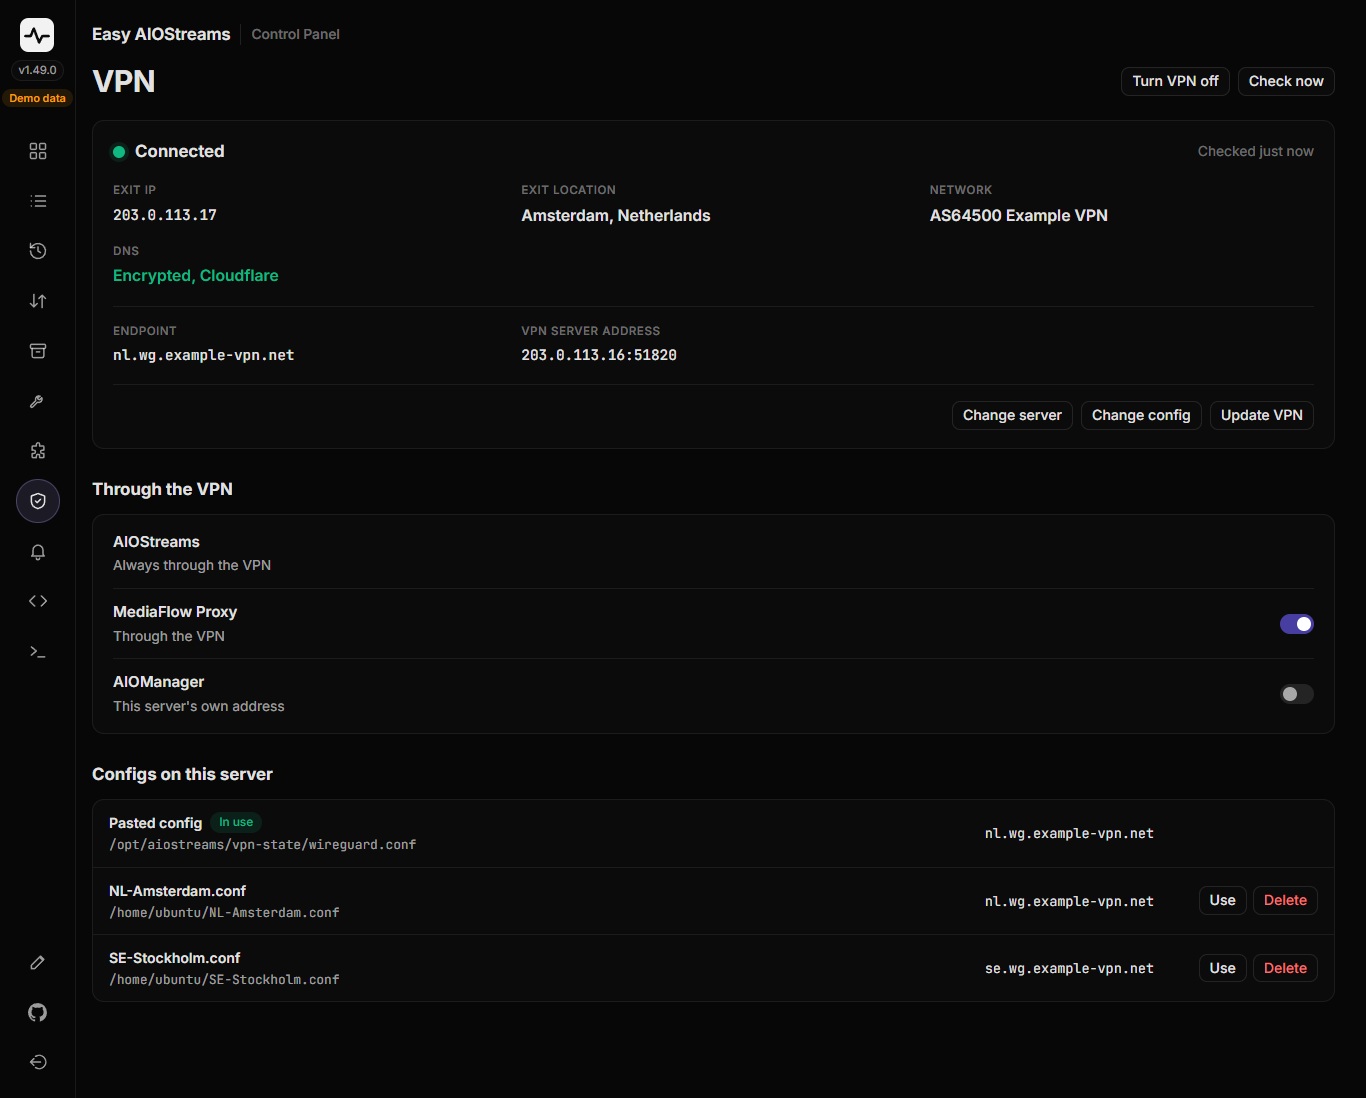
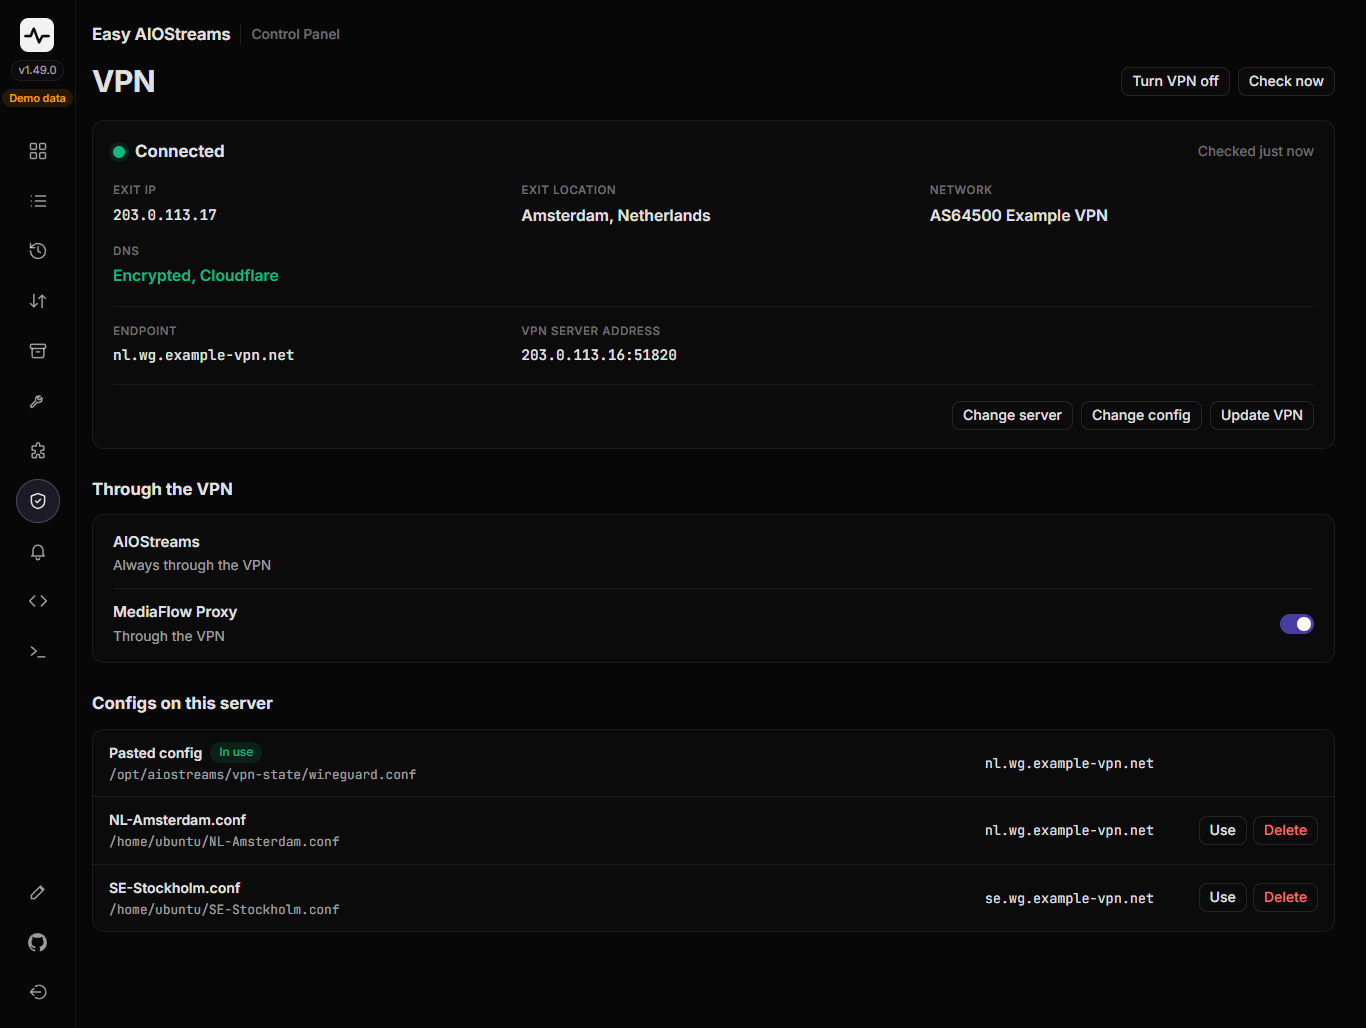
VPN page: MediaFlow's switch only
The other add-ons don't handle video or debrid, so a VPN gains them very little.

diff --git a/control-panel/tests/test_app.py b/control-panel/tests/test_app.py
@@ -395,10 +395,10 @@ def test_vpn_switches_take_only_a_listed_add_on(client):
     assert client.post("/api/actions/vpn.route", json={"params": {"service": "mediaflow", "on": True}}).status_code == 401
     login(client)
     assert [r["key"] for r in client.get("/api/vpn").json()["routes"]] == list(actions.ROUTABLE)
-    for bad in ("", "aiostreams", "caddy", "aiometadata", "mediaflow; reboot", None):
+    for bad in ("", "aiostreams", "caddy", "aiometadata", "aiomanager", "mediaflow; reboot", None):
         assert client.post("/api/actions/vpn.route", json={"params": {"service": bad, "on": True}}).status_code == 400
     assert actions.resolve("vpn.route", {"service": "mediaflow", "on": True}).args == ("route", "mediaflow", "on")
-    assert actions.resolve("vpn.route", {"service": "aiomanager", "on": "yes"}).args == ("route", "aiomanager", "off")
+    assert actions.resolve("vpn.route", {"service": "mediaflow", "on": "yes"}).args == ("route", "mediaflow", "off")
 
 
 def test_logs_hide_mediaflows_password():

diff --git a/control-panel/app/demo.py b/control-panel/app/demo.py
@@ -184,7 +184,7 @@ class DemoBackend:
                "checked_at": None, "error": None}
         if self.vpn == "none":
             return out
-        names = {"mediaflow": "MediaFlow Proxy", "aiomanager": "AIOManager"}
+        names = {"mediaflow": "MediaFlow Proxy"}
         out["routes"] = [{"key": k, "name": n, "on": k in self.routed} for k, n in names.items()]
         out.update(endpoint_host=self.vpn_host if self.has_config else None, endpoint_ip=self.vpn_ip if self.has_config else None,
                    endpoint_port="51820" if self.has_config else None, previous=self.previous, has_config=self.has_config)

diff --git a/control-panel/app/actions.py b/control-panel/app/actions.py
@@ -45,8 +45,9 @@ _PAD = "N\n"
 
 AIO = "setup-aiostreams.sh"
 
-# Add-ons a VPN page switch can send through the VPN, in the page's order
-ROUTABLE = ("mediaflow", "aiomanager")
+# Add-ons a VPN page switch can send through the VPN, in the page's order. MediaFlow
+# fetches video, so it's the one that matters; another needs a line in setup-vpn-gluetun.sh too.
+ROUTABLE = ("mediaflow",)
 
 _STATIC: dict[str, Action] = {a.id: a for a in [
     # Each runs the script's own command; the typed menu answers after it are

diff --git a/docs/advanced/vpn-setup.md b/docs/advanced/vpn-setup.md
@@ -587,31 +587,34 @@ be on for VPN mode to have any effect on your actual stream playback.
 
 ### Add-ons through the VPN
 
-AIOStreams always uses the VPN. MediaFlow and AIOManager can join it, one
-switch each under **Through the VPN** on the control panel's VPN page, or
-from the command line:
+AIOStreams always uses the VPN. MediaFlow can join it, with its switch
+under **Through the VPN** on the control panel's VPN page, or from the
+command line:
 
 ```bash
 sudo bash /opt/aiostreams/setup-vpn-gluetun.sh route mediaflow on
 sudo bash /opt/aiostreams/setup-vpn-gluetun.sh route mediaflow off
 ```
 
-- **Off by default.** Flipping one restarts gluetun, AIOStreams and that
-  add-on, so streams pause for a few seconds.
-- **Same address either way.** The add-on keeps its name, so Caddy and
-  AIOStreams' settings don't change.
-- **Kill switch.** An add-on on the VPN stops if the tunnel drops, and its
-  site shows a 502, so nothing leaves from your server's own IP.
-- **VPN off.** With the VPN turned off, add-ons use your server's own IP,
-  as AIOStreams does, and go back through the VPN when it's turned on.
+The other add-ons don't handle video or debrid, so a VPN gains them very
+little and they have no switch.
 
-How it works: `vpn-state/routed` lists them, and
-`docker-compose.override.yml`, which Compose reads by itself, opens each
-add-on's port and gives gluetun its name while the VPN is on. Docker ties
-an attached container to one gluetun container, so a small service,
-`aiostreams-vpn-routes`, watches for gluetun starting and re-attaches them,
-whatever restarted it. It only runs while a switch is on. Backups carry the
-switches, and a restore puts them back.
+- **Off by default.** Flipping it restarts gluetun, AIOStreams and MediaFlow,
+  so streams pause for a few seconds.
+- **Same address either way.** MediaFlow keeps its name, so Caddy and
+  AIOStreams' settings don't change.
+- **Kill switch.** On the VPN, MediaFlow stops if the tunnel drops, so
+  nothing leaves from your server's own IP. Streams pause until it's back.
+- **VPN off.** With the VPN turned off, MediaFlow uses your server's own
+  IP, as AIOStreams does, and goes back through the VPN when it's turned on.
+
+How it works: `vpn-state/routed` lists it, and
+`docker-compose.override.yml`, which Compose reads by itself, opens its
+port and gives gluetun its name while the VPN is on. Docker ties an
+attached container to one gluetun container, so a small service,
+`aiostreams-vpn-routes`, watches for gluetun starting and re-attaches it,
+whatever restarted it. It only runs while the switch is on. Backups carry
+the switch, and a restore puts it back.
 
 That said, this only applies to the final video-data hop to your playback
 device. Every scraper addon call and debrid API call AIOStreams itself

diff --git a/docs/advanced/control-panel.md b/docs/advanced/control-panel.md
@@ -131,7 +131,7 @@ It appears on the rail once `setup-vpn-gluetun.sh` has set the VPN up, on or off
 
 **Configs on this server** lists what `list-configs` finds: the pasted config, the previous one, an earlier paste, one pasted but not used yet, and `.conf` files in `/root` and the login user's home that have `[Interface]`, `[Peer]`, `PrivateKey` and `Endpoint` (the same files Reconfigure offers). Each shows its path and endpoint, never its keys. **Use** (any config not in use) copies it into `vpn-state` and switches to it as Change config does, so a file can be deleted afterwards; the config left becomes Previous config, so two can be swapped back and forth. On Previous config, the address it used is picked to start with. **Delete** takes only a path the list has just found, and the config in use only while the VPN is off; the script checks that again before deleting. Deleting that one also takes its key out of the saved VPN settings (`vpn-state/docker-compose.vpn.yml`), so no config is left: **Turn VPN on** then opens the paste dialog and turns the VPN on with the config given (`use-config <ip> on`).
 
-**Through the VPN** lists AIOStreams, which always uses the VPN, and a switch for MediaFlow and AIOManager once they're set up. See [Add-ons through the VPN](./vpn-setup.md#add-ons-through-the-vpn). The request flow shows them under the VPN tunnel, and Network counts their traffic there.
+**Through the VPN** lists AIOStreams, which always uses the VPN, and a switch for MediaFlow once it's set up. See [Add-ons through the VPN](./vpn-setup.md#add-ons-through-the-vpn). With the switch on, the request flow shows MediaFlow under the VPN tunnel, and Network counts its traffic there.
 
 Uninstalling the VPN is on the [Add-ons page](#add-ons-page). The script's `uninstall` switches to direct first, removes the gluetun container (and image, if ticked), and deletes `vpn-state` only once AIOStreams and Caddy are confirmed running, refusing otherwise with nothing deleted. **Delete the .conf files** deletes the ones the list shows in `/root` and the login user's home. The page disappears once the VPN is gone.
 

diff --git a/docs/basic/vpn-setup.md b/docs/basic/vpn-setup.md
@@ -101,7 +101,7 @@ sudo bash /opt/aiostreams/setup-vpn-gluetun.sh
 - **Status**: shows whether it's on and healthy.
 - **Reconfigure VPN**: switch to a different config. Paste it, pick an address, and it's used straight away. Its option **3** keeps your config and just picks a different server address, handy if the current one turns slow or blocked. Option **4** goes back to the config you used before your last change (the one you leave becomes the previous one, so you can swap back again), and **5** lists the configs kept on the server, to delete any you don't need.
 
-Want MediaFlow or AIOManager on the VPN too? Turn on their switch under **Through the VPN** on the control panel's VPN page. More: [Add-ons through the VPN](../advanced/vpn-setup.md#add-ons-through-the-vpn).
+Using MediaFlow? Its video doesn't go through the VPN until you turn on its switch under **Through the VPN** on the control panel's VPN page. More: [Add-ons through the VPN](../advanced/vpn-setup.md#add-ons-through-the-vpn).
 
 Using the [control panel](./control-panel.md)? Its **VPN** page shows whether you're connected and where your traffic leaves from, and has **Turn VPN on** and **Turn VPN off**, **Change server** (another address for the same config, fastest first), **Change config** (paste a new one, with a way back), **Update VPN**, and a list of the configs on the server to use or delete. The Overview gets a VPN card too, and the **Network** page graphs what goes through the tunnel.
 
